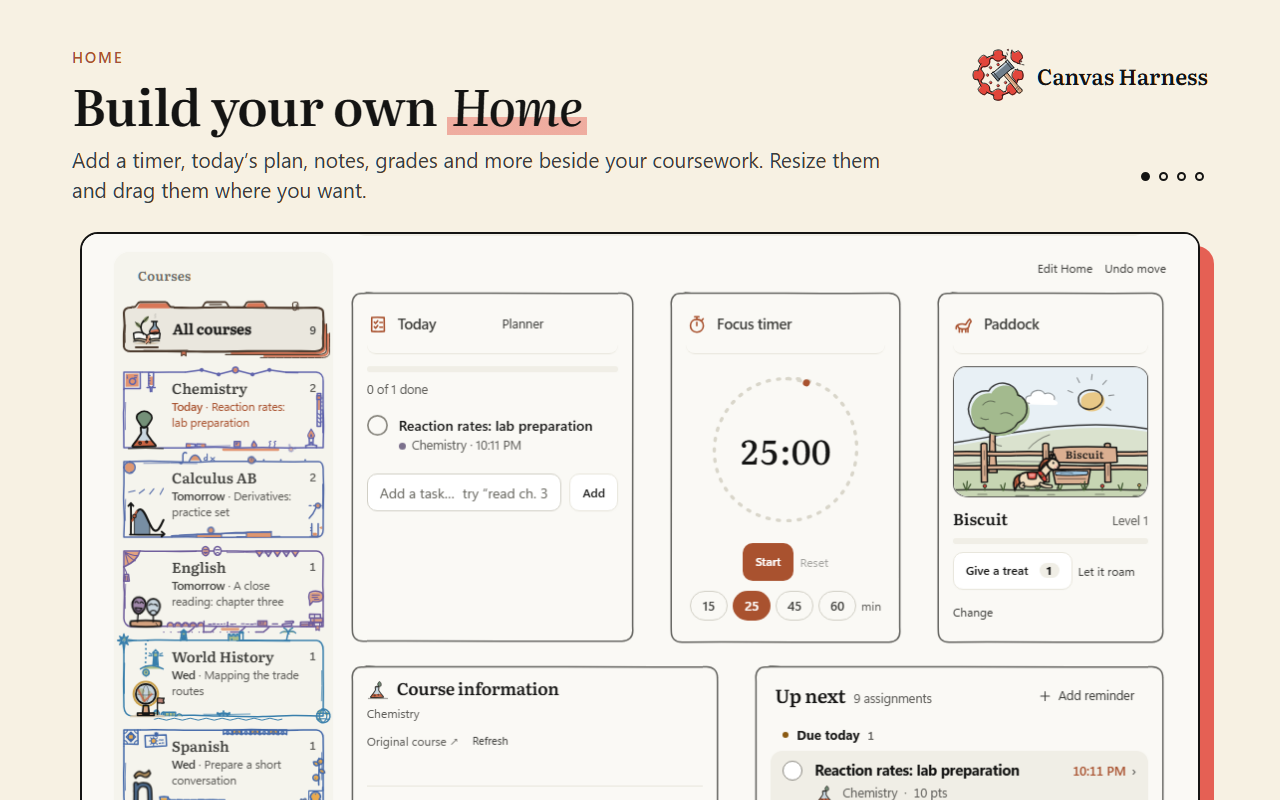
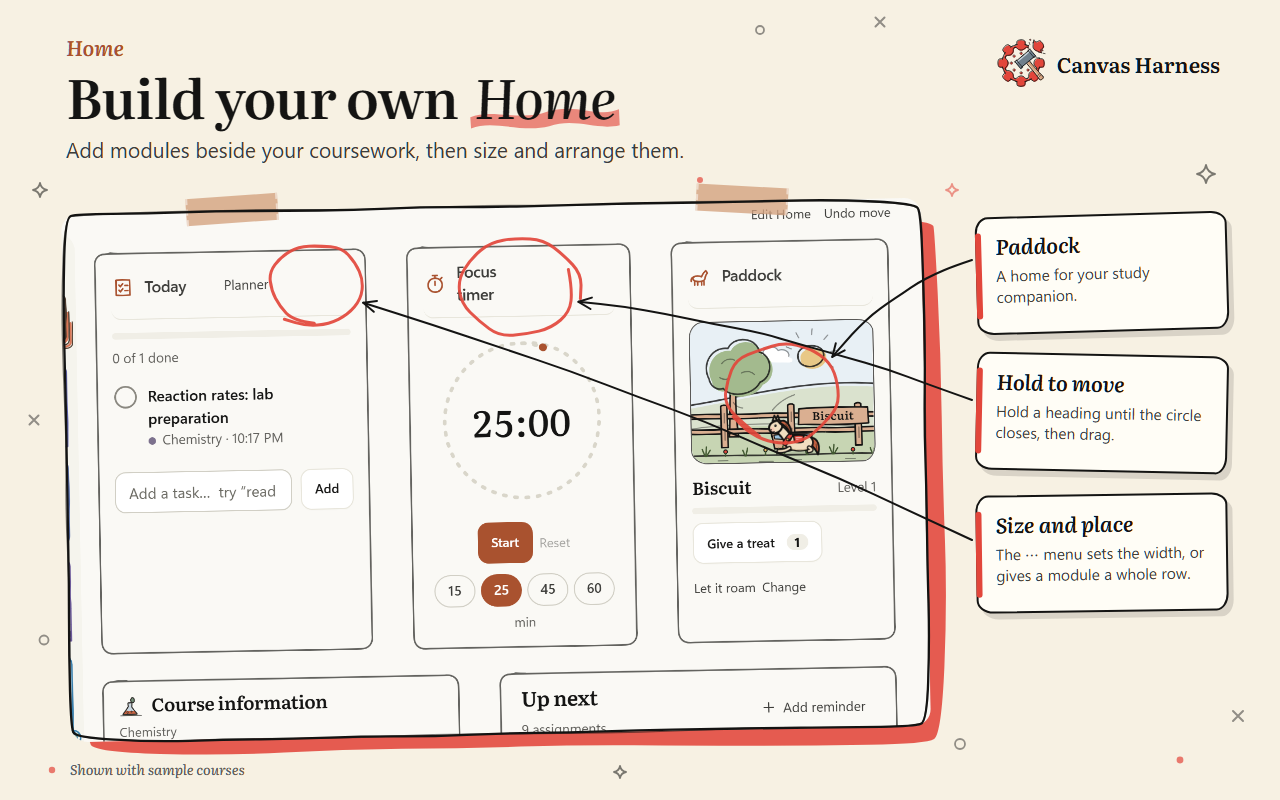
Canvas Harness 2.22.3: only an assignment's words link to Canvas; hand-drawn store pictures
- The assignment title link is as wide as its words. Clicking the empty
  space to their right selects the row instead of opening Canvas.
- Store kit: eight 1280 x 800 pictures in the hand-drawn style (a taped
  sheet, pen circles, drawn arrows and paper notes).
- Version 2.22.3.

diff --git a/extension/popup.html b/extension/popup.html
@@ -1,2 +1,2 @@
 <!doctype html><html lang="en"><head>
-<meta name="author" content="Flzsh"><meta charset="UTF-8"><meta name="viewport" content="width=device-width,initial-scale=1"><title>Canvas Harness</title><link rel="stylesheet" href="popup.css"></head><body><header><img src="icon.svg" width="42" height="42" alt=""><div><h1>Canvas Harness</h1><p>Canvas, within reach.</p></div></header><p class="intro">Direct links to your assignments, grades, and course files. Planning tools are there when you need them.</p><label class="school-url">Canvas address<input id="school-url" type="url" placeholder="https://your-school.instructure.com" autocomplete="url" spellcheck="false"></label><button id="open">Open Canvas dashboard ↗</button><button id="canvas" class="secondary">Open original Canvas</button><label><input id="enabled" type="checkbox"> Enable Canvas Harness on Canvas</label><p id="status" role="status">Changes apply after reloading Canvas.</p><details class="native-appearance"><summary>Canvas page appearance</summary><label>Theme<select data-native="theme" disabled><option value="original">Canvas original</option><option value="light">Light</option></select></label><label>Reading width<select data-native="readingWidth" disabled><option value="comfortable">Comfortable</option><option value="full">Full width</option></select></label><label>Assignment text<select data-native="textSize" disabled><option value="standard">Standard</option><option value="large">Larger</option></select></label><label>Link accent<select data-native="accent" disabled><option value="clay">Clay</option><option value="forest">Forest</option><option value="indigo">Iris</option><option value="ocean">Ocean</option><option value="rose">Rose</option><option value="amber">Amber</option></select></label><p>Choose Light to apply these choices. Saved for Canvas on this device. Teacher documents keep their colors.</p></details><button id="reload-extension" class="secondary">Reload Canvas Harness</button><p class="intro">After reloading the extension, refresh Canvas to activate the update.</p><footer>Canvas Harness 2.22.2<br>Notes stay in this browser. Back them up in Settings.</footer><script src="site.js"></script><script src="native-appearance.js"></script><script src="native-page.js"></script><script src="popup.js"></script></body></html>
+<meta name="author" content="Flzsh"><meta charset="UTF-8"><meta name="viewport" content="width=device-width,initial-scale=1"><title>Canvas Harness</title><link rel="stylesheet" href="popup.css"></head><body><header><img src="icon.svg" width="42" height="42" alt=""><div><h1>Canvas Harness</h1><p>Canvas, within reach.</p></div></header><p class="intro">Direct links to your assignments, grades, and course files. Planning tools are there when you need them.</p><label class="school-url">Canvas address<input id="school-url" type="url" placeholder="https://your-school.instructure.com" autocomplete="url" spellcheck="false"></label><button id="open">Open Canvas dashboard ↗</button><button id="canvas" class="secondary">Open original Canvas</button><label><input id="enabled" type="checkbox"> Enable Canvas Harness on Canvas</label><p id="status" role="status">Changes apply after reloading Canvas.</p><details class="native-appearance"><summary>Canvas page appearance</summary><label>Theme<select data-native="theme" disabled><option value="original">Canvas original</option><option value="light">Light</option></select></label><label>Reading width<select data-native="readingWidth" disabled><option value="comfortable">Comfortable</option><option value="full">Full width</option></select></label><label>Assignment text<select data-native="textSize" disabled><option value="standard">Standard</option><option value="large">Larger</option></select></label><label>Link accent<select data-native="accent" disabled><option value="clay">Clay</option><option value="forest">Forest</option><option value="indigo">Iris</option><option value="ocean">Ocean</option><option value="rose">Rose</option><option value="amber">Amber</option></select></label><p>Choose Light to apply these choices. Saved for Canvas on this device. Teacher documents keep their colors.</p></details><button id="reload-extension" class="secondary">Reload Canvas Harness</button><p class="intro">After reloading the extension, refresh Canvas to activate the update.</p><footer>Canvas Harness 2.22.3<br>Notes stay in this browser. Back them up in Settings.</footer><script src="site.js"></script><script src="native-appearance.js"></script><script src="native-page.js"></script><script src="popup.js"></script></body></html>

diff --git a/extension/widgets.css b/extension/widgets.css
@@ -406,3 +406,5 @@
 .rd .rd-course-rail .rd-rail-course > .rd-grade {top:auto;bottom:calc(var(--rd-rail-pad,10px) + 5px);}
 /* Only the card's last line can meet the grade now, so the lines above it use the full width. */
 .rd .rd-course-rail .rd-rail-course:has(> .rd-grade) .rd-rail-text > small:not(:last-child) {padding-right:0;}
+/* Only the assignment's own words are the link to Canvas; the empty space to their right selects the row like the rest of it. */
+.rd[data-workspace=work] .rd-assignment-top > .rd-assignment-title {flex:0 1 auto;width:fit-content;max-width:100%;margin-right:auto;}

diff --git a/extension/content.js b/extension/content.js
@@ -7,7 +7,7 @@ if(typeof module==='object'&&module.exports&&!globalThis.ReserveSite)require('./
   const isDashboard=location.pathname==='/'||/^\/dashboard\/?$/.test(location.pathname);
   const params=new URLSearchParams(location.search);
   const startup=globalThis.ReserveStartup;
-  const build='2.22.2';
+  const build='2.22.3';
   // Local timings contain only milliseconds, never account or course data.
   // They make real startup measurable without delaying or storing the page.
   const stamp=()=>Math.round(globalThis.performance?.now?.()||0);

diff --git a/docs/TESTING.md b/docs/TESTING.md
@@ -1,8 +1,8 @@
-# Release checks — Canvas Harness 2.22.2
+# Release checks — Canvas Harness 2.22.3
 
 The public suite passes **616 tests**, with no failures. Three optional isolated browser tests are skipped in the standard run. JavaScript syntax, manifest resources, icon dimensions, and package checks pass.
 
-2.22.2 moves a shown grade to the foot of its course card, above the frame's corner drawing. 2.22.1 is an efficiency release: no feature changes. It was profiled in the preview page with the CPU slowed six times to stand in for a low-end Chromebook. Showing the workspace again after the account recheck on returning to a tab fell from about 1.8 s to about 0.5 s or less (the workspace is hidden with `content-visibility` while it waits, and still shows nothing until the check passes); style work on an idle page fell by about half. These figures come from the preview, not from a physical Chromebook. It also runs only on real Canvas pages and checks that every version number agrees.
+2.22.3 makes only an assignment's own words the link to Canvas; the empty space to their right no longer opens the assignment page. 2.22.2 moves a shown grade to the foot of its course card, above the frame's corner drawing. 2.22.1 is an efficiency release: no feature changes. It was profiled in the preview page with the CPU slowed six times to stand in for a low-end Chromebook. Showing the workspace again after the account recheck on returning to a tab fell from about 1.8 s to about 0.5 s or less (the workspace is hidden with `content-visibility` while it waits, and still shows nothing until the check passes); style work on an idle page fell by about half. These figures come from the preview, not from a physical Chromebook. It also runs only on real Canvas pages and checks that every version number agrees.
 
 The 2.22.0 checks add the Home modules and their arrangement (measured rows, module width, docking a module as a whole row or column), the planner model, the study companion's rewards, and the optional **Open at once** start: off, nothing saved is shown before the account check; on, an early view closes when the check names another account or cannot be made. These parts were exercised in the preview page with sample data.
 

diff --git a/docs/store/README.md b/docs/store/README.md
@@ -12,11 +12,11 @@ Use a public publisher name such as **Flzsh**. Check which contact details each 
 ## Upload
 
 - Run `npm test`, `npm run check`, and `npm run build` from the repository.
-- Upload `dist/Canvas-Harness-2.22.2.zip`. Its `manifest.json` is at the ZIP root. Do not upload the source repository, a personal backup, or the separate Folio test build.
+- Upload `dist/Canvas-Harness-2.22.3.zip`. Its `manifest.json` is at the ZIP root. Do not upload the source repository, a personal backup, or the separate Folio test build.
 - Use [listing.txt](listing.txt) for the description and links. Enter the manifest's actual description where the store derives the short description from the package.
 - Use `icon-128.png` for Chrome and `logo-300.png` for Edge. Both come from the original large Canvas Harness logo.
 - Use `promo-440x280.png` for the small promotional image and `marquee-1400x560.png` for the marquee image.
-- Upload the five supplied 1280 × 800 screenshots in their numbered order: the title, then Home modules, Assignments, Planner and Make it yours. They show artificial course content in the public preview, never the developer's signed-in school account.
+- Eight 1280 × 800 screenshots are supplied, drawn in the project's hand-drawn style: the title, then Home, Assignments, Planner, Study companion, Edit Home, Grades and Make it yours. Chrome accepts five: use numbers 1 to 5. Use all eight where a store allows more. They show artificial course content in the public preview, never the developer's signed-in school account.
 - Review [disclosures.md](disclosures.md) against the current dashboard questions and package. Do not select “no user data” merely because there is no developer server.
 - Add [reviewer-notes.md](reviewer-notes.md). Supply only a separately authorized test account if a reviewer requires one; never share your school credentials.
 - Save the listing as a draft, inspect every asset and disclosure, then submit for review when the account and required testing are ready. A successful upload does not mean store approval.

diff --git a/PRIVACY.md b/PRIVACY.md
@@ -1,6 +1,6 @@
 # Canvas Harness privacy
 
-Applies to Canvas Harness 2.22.2. Last updated October 12, 2026.
+Applies to Canvas Harness 2.22.3. Last updated October 12, 2026.
 
 Canvas Harness is a browser extension maintained by Flzsh. It displays information from the Canvas account already signed in on your school's website. It has no developer-operated account service, analytics collector or tracking endpoint in the extension code for this release.
 
